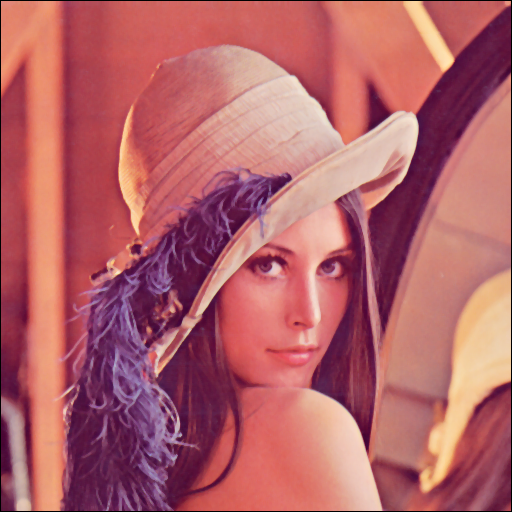
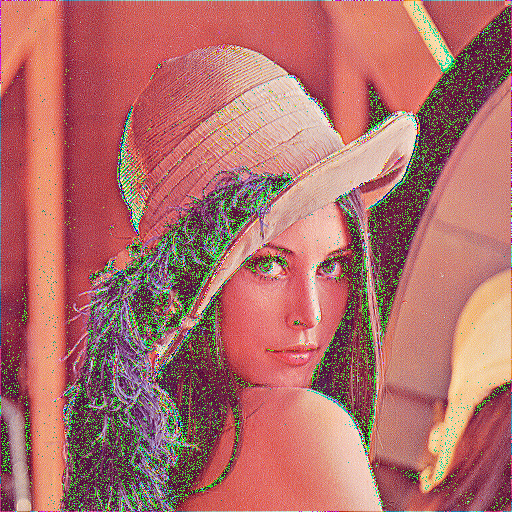
ex8

diff --git a/ExoPdf6/Exercice8.py b/ExoPdf6/Exercice8.py
@@ -1,0 +1,146 @@
+#-*- coding: utf8 -*-
+
+########################################################################
+'''
+  _   __    _   _____  _   _                         _   _
+ |  \/  |  /_\ |_   _|| |_| | (_) _  _   ____  _  _ | |_| |_   ___  _ _
+ | |\/| | / _ \  | |  |  _  | | || \| | |  _ \| || ||  _| _ \ / _ \| \ |
+ |_|  |_|/_/ \_\ |_|  |_| |_| |_||_|\_| |  __/\_, /  \__|_||_|\___/|_\_|
+                                        |_|   |__/
+'''
+########################################################################
+
+#----------------------------------------------------------------------#
+#                                                                      #
+#                 Cours de Mathématiques pour BAC Info                 #
+#                            G. Barmarin                               #
+#                                                                      #                                                        
+#                               2022-2023                              #                      
+#                                                                      #
+#----------------------------------------------------------------------#
+
+#----------------------------------------------------------------------#
+#                                                                      #
+#                           Exercice 8                                 #
+#                      Fonction de convolution                         #                                                          
+#                                                                      #
+#----------------------------------------------------------------------#
+
+#----------------------------------------------------------------------#
+#                       Source: Thomas Copin                           #                 
+#----------------------------------------------------------------------#
+
+#----------------------------------------------------------------------#
+#                        Que fait ce programme?                        #           
+#----------------------------------------------------------------------#
+#                                                                      #
+#                    utilisation d'un filtre de piqué                  #
+#                                                                      #  
+#                                                                      #
+#----------------------------------------------------------------------#
+
+
+#-----------------------------------------------------------------------
+# Importation des bibliothèques                       
+#-----------------------------------------------------------------------
+
+import time
+import numpy as np 
+from scipy.ndimage import convolve
+from tkinter import *
+from PIL import Image, ImageTk
+from scipy.ndimage import gaussian_filter
+
+#-----------------------------------------------------------------------
+# Définition / initialisation des variables               
+#-----------------------------------------------------------------------
+
+img = "images/Lenna512.png"
+
+img_in = Image.open(img)
+image = np.asarray(img_in)
+
+mask = np.array([
+    [0, -1, 0],
+    [-1, 5, -1],
+    [0, -1, 0]
+])
+
+#-----------------------------------------------------------------------
+
+#-----------------------------------------------------------------------
+#
+# encodage du programme principal
+#
+#-----------------------------------------------------------------------
+
+# Encodez votre programme ici!
+print("\nFiltre de piqué de Lenna avec un masque 3x3\n")
+print("\n---------------------------------------------\n")
+
+start = time.time()
+
+img_out1 = np.zeros_like(image)
+for i in range(3):  # Pour chaque canal de couleur (R, G, B)
+    img_out1[:,:,i] = convolve(image[:,:,i], mask, mode='constant')
+
+img_out1 = np.clip(img_out1, 0, 255)
+
+end = time.time()
+
+print(f"\nLe filtre de piqué de Lenna est réussi, l'opération vous a pris: {end-start} secondes")
+
+print("\n---------------------------------------------\n")
+
+Image.fromarray(image).save("image_entree.png")
+Image.fromarray(img_out1.astype(np.uint8)).save("image_sortie.png")
+
+#-----------------------------------------------------------------------
+# Affichage dans tkinter
+#-----------------------------------------------------------------------
+
+root = Tk()
+
+empty_line0 = Label(root, text="")
+empty_line0.pack()
+empty_line00 = Label(root, text="LABO COURS DE MATH: TRAITEMENT D'IMAGES")
+empty_line00.pack()
+champ_label_result0 = Label(root, text="On affiche l'image avant transformation et après")
+champ_label_result0.pack()
+empty_line2 = Label(root, text="")
+empty_line2.pack()
+
+champ_label_result1 = Label(root, text="Image avant transformation")
+champ_label_result1.pack() 
+image_in = Image.open("image_entree.png")
+photo = ImageTk.PhotoImage(image_in)
+
+image_out = Image.open("image_sortie.png")
+photo2 = ImageTk.PhotoImage(image_out)
+
+canvas = Canvas(root,width=300,height=250,bg="silver")
+canvas.create_image(150,127, image=photo)
+canvas.pack()
+
+champ_label_result2 = Label(root, text="Image après transformation")
+champ_label_result2.pack() 
+
+canvas = Canvas(root,width=300,height=250,bg="silver")
+canvas.create_image(150,127, image=photo2)
+canvas.pack()
+
+empty_line3 = Label(root, text="")
+empty_line3.pack()
+bouton_valider = Button(root, text="Quit", command=root.destroy)
+bouton_valider.pack()
+empty_line4 = Label(root, text="")
+empty_line4.pack()
+root.mainloop()
+
+
+
+#-----------------------------------------------------------------------
+#
+#                               Fin
+#
+#-----------------------------------------------------------------------
